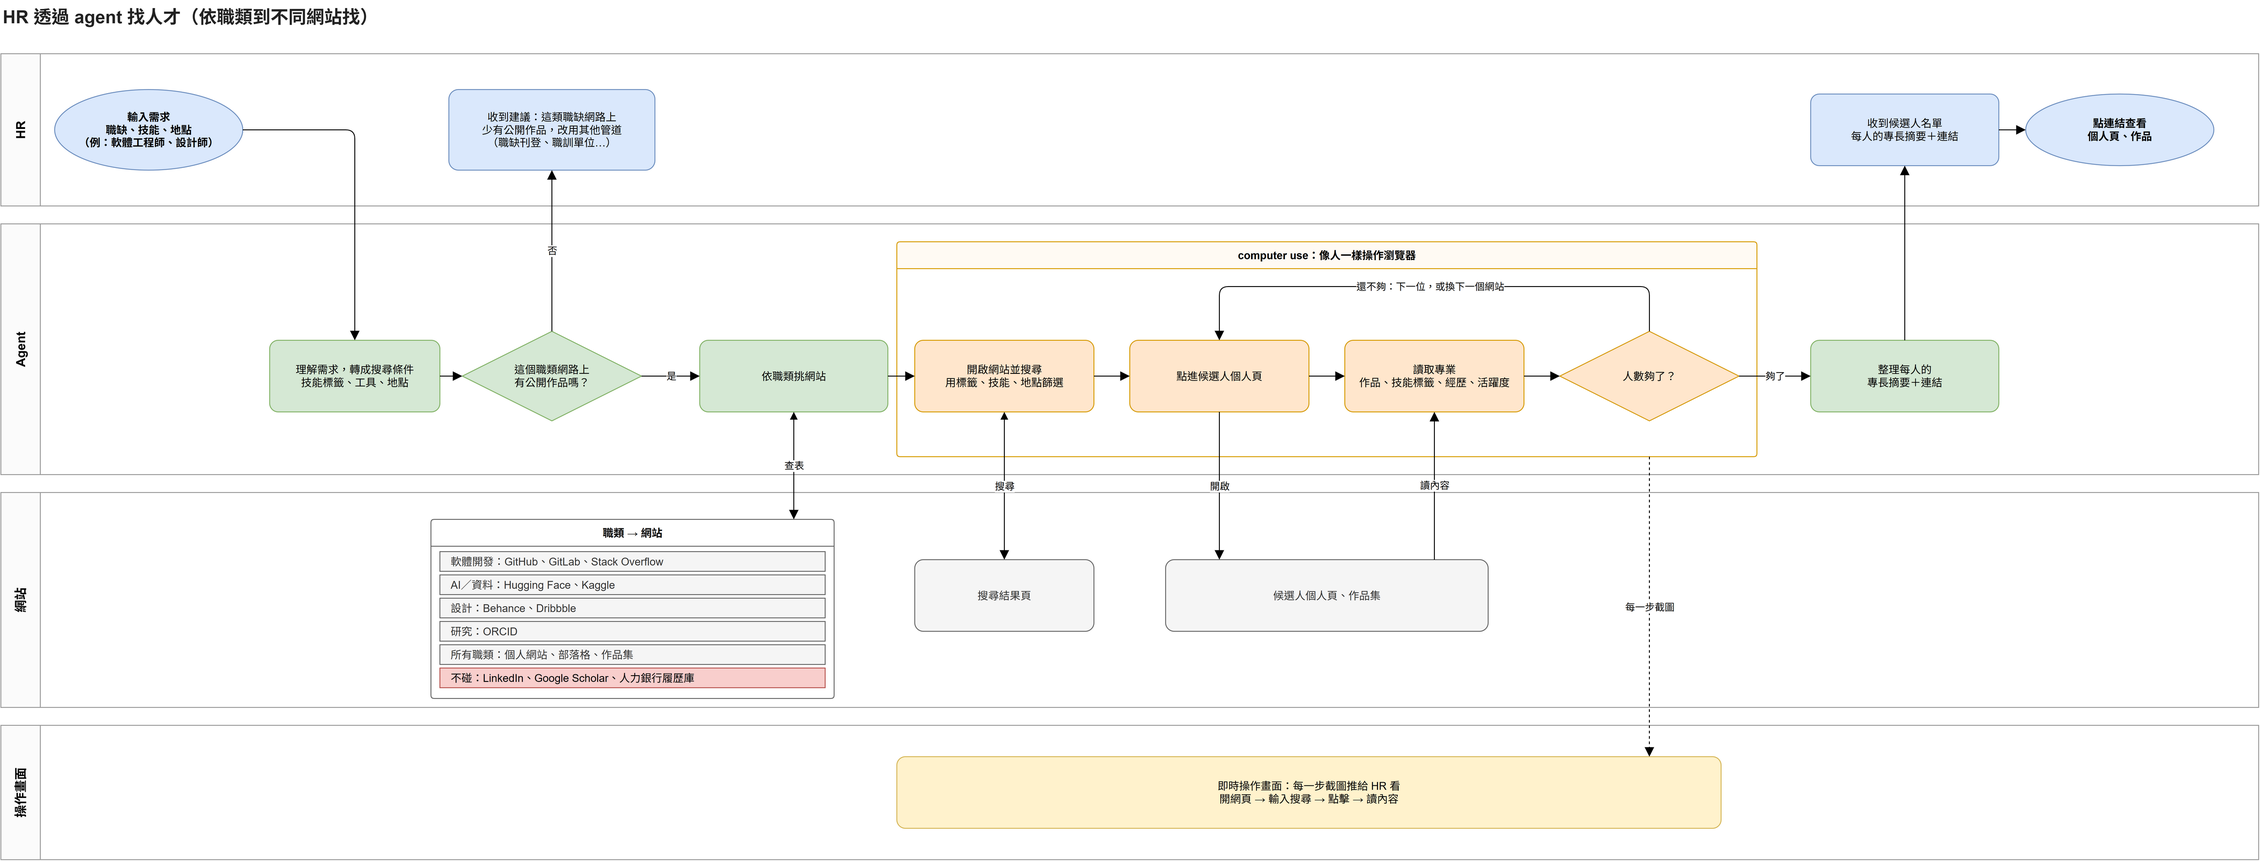
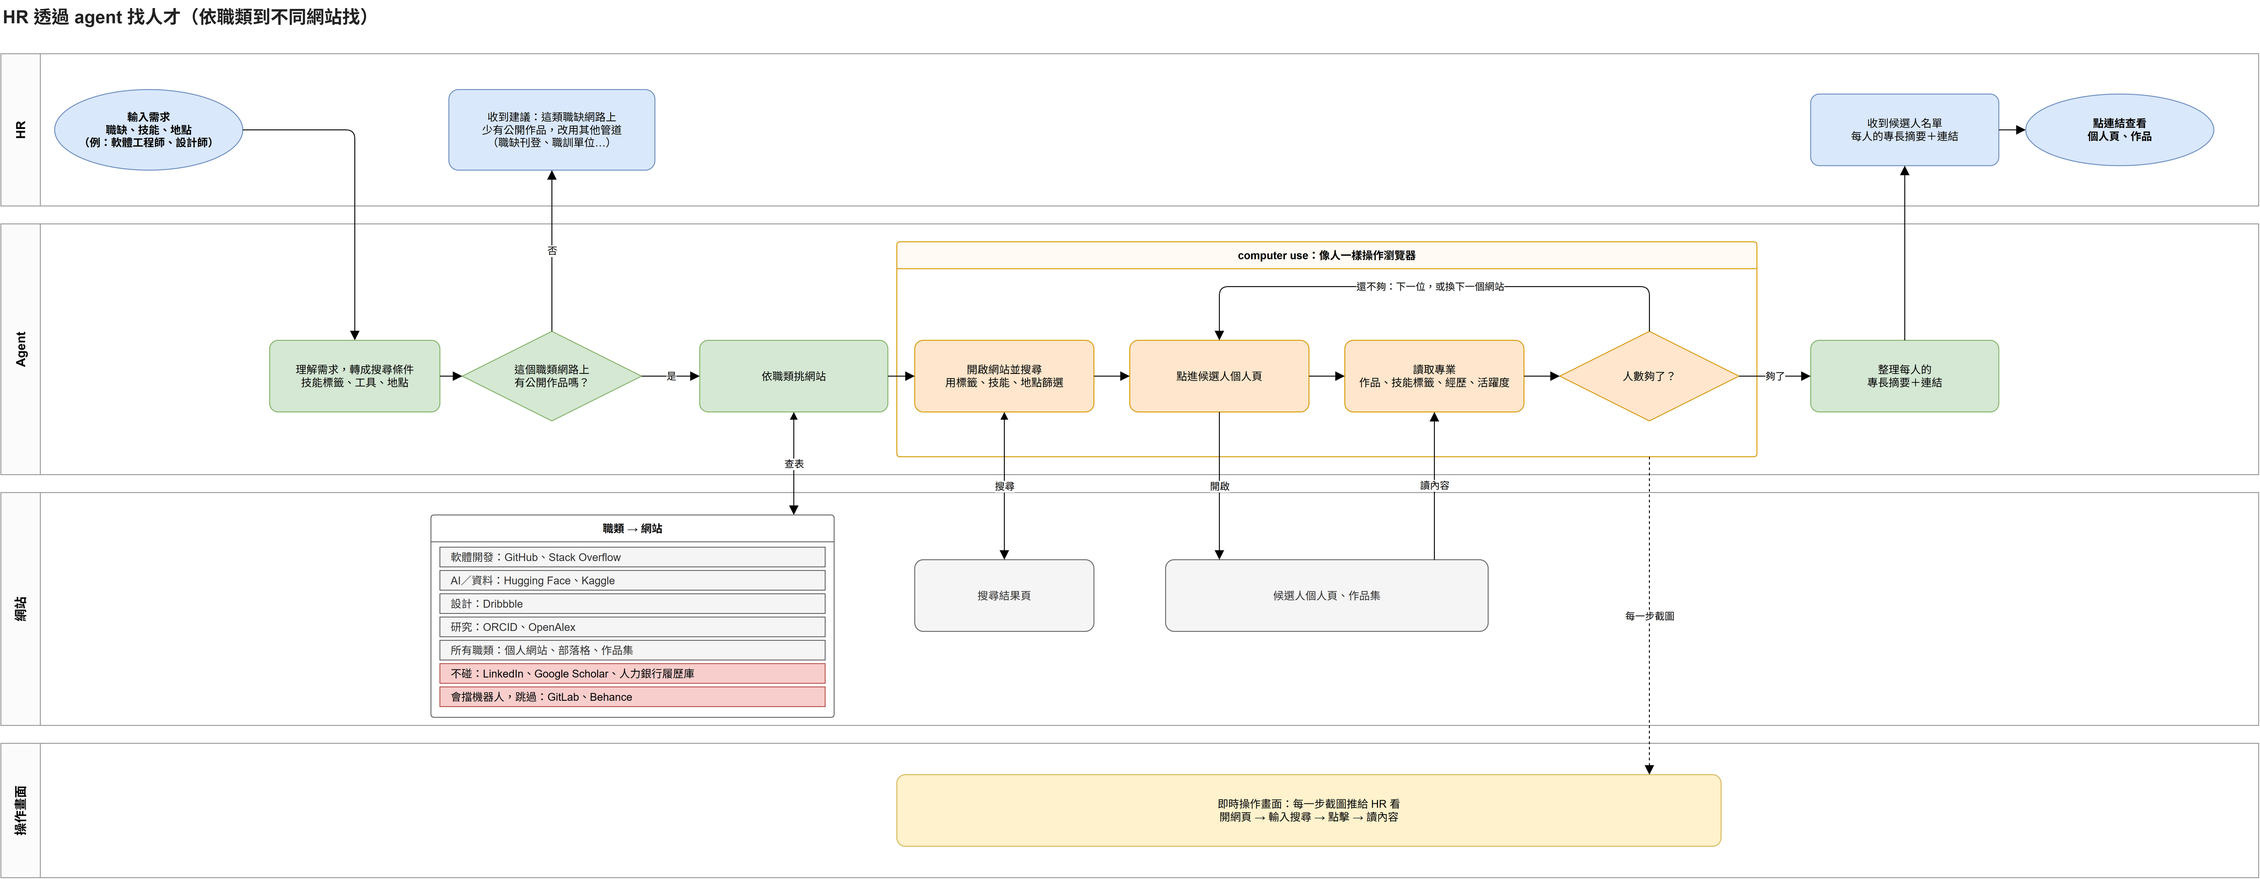
feat: add OpenAlex as the research source in place of Google Scholar
Google Scholar has no API and forbids automation, so research roles now
query the official OpenAlex API: recent papers on the topic, authors whose
current institution is in the requested city or country, with paper and
citation counts, topics, ORCID and a representative paper. API-only sites
run before the browser and Chrome starts only when a browser site remains.

diff --git a/sourcing/apis.py b/sourcing/apis.py
@@ -31,3 +31,101 @@ def stackoverflow_user(user_id: str, *, timeout: float = 15.0) -> Optional[dict[
         "link": info.get("link") or "",
         "top_tags": [t.get("tag_name") for t in tags.json().get("items", []) if t.get("tag_name")],
     }
+
+
+OPENALEX = "https://api.openalex.org"
+COUNTRY_CODES = {"Taiwan": "TW"}
+
+
+def _tail(openalex_id: Optional[str]) -> str:
+    """https://openalex.org/A123 → A123；空值回空字串（真實資料裡會有）。"""
+    return (openalex_id or "").rsplit("/", 1)[-1]
+
+
+def _openalex(path: str, params: dict[str, Any], timeout: float) -> dict[str, Any]:
+    response = requests.get(f"{OPENALEX}/{path}", params=params, timeout=timeout)
+    response.raise_for_status()
+    return response.json()
+
+
+def openalex_institutions(city: str, *, country: str = "TW", timeout: float = 20.0) -> list[str]:
+    """回傳位在指定城市的機構 id（例如 Taichung 的中興、東海、逢甲）。"""
+    ids: list[str] = []
+    for page in range(1, 4):
+        data = _openalex("institutions", {"filter": f"country_code:{country}", "per-page": 200, "page": page,
+                                          "select": "id,geo"}, timeout)
+        for inst in data.get("results", []):
+            if ((inst.get("geo") or {}).get("city") or "").lower() == city.lower():
+                ids.append(_tail(inst.get("id")))
+        if page * 200 >= data.get("meta", {}).get("count", 0):
+            break
+    return ids
+
+
+def openalex_authors(topic: str, location: Optional[str], *, limit: int = 5,
+                     timeout: float = 20.0) -> Optional[list[dict[str, Any]]]:
+    """用主題搜近年論文，挑出所屬機構在指定地點的作者，再批次取作者公開資料。API 失敗回 None。"""
+    try:
+        filters = ["from_publication_date:2021-01-01"]
+        institutions: set[str] = set()
+        if location in COUNTRY_CODES:
+            filters.append(f"authorships.institutions.country_code:{COUNTRY_CODES[location]}")
+        elif location:
+            institutions = set(openalex_institutions(location, timeout=timeout))
+            if not institutions:
+                return []
+            filters.append("authorships.institutions.id:" + "|".join(sorted(institutions)[:50]))
+        # 論文上的所屬機構是當時的；先多挑幾位，再用作者「目前」所屬機構篩一次
+        pool = min(limit * 4, 50)
+        works = _openalex("works", {"search": topic, "filter": ",".join(filters), "sort": "cited_by_count:desc",
+                                    "per-page": 50, "select": "id,title,doi,publication_year,authorships"}, timeout)
+        picked: dict[str, dict[str, Any]] = {}
+        for work in works.get("results", []):
+            for authorship in work.get("authorships") or []:
+                inst_ids = {_tail(i.get("id")) for i in authorship.get("institutions") or []}
+                countries = {i.get("country_code") for i in authorship.get("institutions") or []}
+                if institutions and not inst_ids & institutions:
+                    continue
+                if location in COUNTRY_CODES and COUNTRY_CODES[location] not in countries:
+                    continue
+                author_id = _tail((authorship.get("author") or {}).get("id"))
+                if author_id and author_id not in picked:
+                    picked[author_id] = {"top_work": {"title": work.get("title") or "", "year": work.get("publication_year"),
+                                                      "url": work.get("doi") or work.get("id")}}
+                if len(picked) >= pool:
+                    break
+            if len(picked) >= pool:
+                break
+        if not picked:
+            return []
+        details = _openalex("authors", {"filter": "openalex:" + "|".join(picked), "per-page": len(picked),
+                                        "select": "id,display_name,orcid,works_count,cited_by_count,"
+                                                  "last_known_institutions,topics"}, timeout)
+    except (requests.RequestException, ValueError, KeyError):
+        return None
+    out = []
+    for author in details.get("results", []):
+        author_id = _tail(author.get("id"))
+        current = author.get("last_known_institutions") or []
+        if institutions and not {_tail(i.get("id")) for i in current} & institutions:
+            continue
+        if location in COUNTRY_CODES and COUNTRY_CODES[location] not in {i.get("country_code") for i in current}:
+            continue
+        # 同時掛好幾個機構時，顯示符合地點的那一個
+        local = [i for i in current if (institutions and _tail(i.get("id")) in institutions)
+                 or (location in COUNTRY_CODES and i.get("country_code") == COUNTRY_CODES[location])]
+        institution = ((local or current or [{}])[0].get("display_name") or "")
+        if len(current) > 1:
+            institution += f" 等 {len(current)} 個機構"
+        out.append({
+            "id": author_id,
+            "display_name": author.get("display_name") or "",
+            "orcid": author.get("orcid") or "",
+            "works_count": author.get("works_count"),
+            "cited_by_count": author.get("cited_by_count"),
+            "institution": institution,
+            "topics": [t.get("display_name") for t in (author.get("topics") or [])[:5] if t.get("display_name")],
+            **picked.get(author_id, {}),
+        })
+    order = list(picked)
+    return sorted(out, key=lambda a: order.index(a["id"]) if a["id"] in order else len(order))[:limit]

diff --git a/tests/test_sourcing.py b/tests/test_sourcing.py
@@ -364,3 +364,67 @@ def test_jev_low_confidence_stops_and_missing_key_skips():
     assert len(steps) == 1 and steps[0]["action"] == "press_escape"
     b._client = None
     assert list(b.jev_steps("x", ("orcid.org",))) == []
+
+
+# ------------------------------------------------------------------ OpenAlex（取代 Google Scholar）
+from sourcing import apis
+
+
+def test_openalex_keeps_only_authors_from_target_city(monkeypatch):
+    def fake(path, params, timeout):
+        if path == "institutions":
+            return {"meta": {"count": 2}, "results": [
+                {"id": "https://openalex.org/I1", "geo": {"city": "Taichung"}},
+                {"id": "https://openalex.org/I2", "geo": {"city": "Taipei"}}]}
+        if path == "works":
+            assert "authorships.institutions.id:I1" in params["filter"]
+            return {"results": [{"id": "W1", "title": "Deep nets", "doi": "https://doi.org/10.1/x", "publication_year": 2024,
+                                 "authorships": [
+                                     {"author": {"id": "https://openalex.org/A9"}, "institutions": [{"id": "https://openalex.org/I2"}]},
+                                     {"author": {"id": "https://openalex.org/A1"}, "institutions": [{"id": "https://openalex.org/I1"}]}]}]}
+        assert params["filter"] == "openalex:A1"
+        return {"results": [{"id": "https://openalex.org/A1", "display_name": "Lin", "orcid": "https://orcid.org/0000-0001-2345-6789",
+                             "works_count": 40, "cited_by_count": 900,
+                             "last_known_institutions": [{"id": "https://openalex.org/I1",
+                                                          "display_name": "National Chung Hsing University"}],
+                             "topics": [{"display_name": "Machine Learning"}]}]}
+
+    monkeypatch.setattr(apis, "_openalex", fake)
+    authors = apis.openalex_authors("machine learning", "Taichung", limit=3)
+    assert [a["id"] for a in authors] == ["A1"] and authors[0]["top_work"]["url"] == "https://doi.org/10.1/x"
+
+
+def test_research_role_uses_openalex_without_opening_browser(monkeypatch):
+    monkeypatch.setattr(apis, "openalex_authors", lambda topic, location, limit: [{
+        "id": "A1", "display_name": "Lin", "orcid": "https://orcid.org/0000-0001-2345-6789", "works_count": 40,
+        "cited_by_count": 900, "institution": "National Chung Hsing University", "topics": ["Machine Learning"],
+        "top_work": {"title": "Deep nets", "url": "https://doi.org/10.1/x"}}])
+    prep = service.prepare("找台中的機器學習研究員", site_ids=["openalex"])
+    events = list(service.stream(prep, browser_factory=lambda: pytest.fail("不應開瀏覽器")))
+    cand = next(e["candidate"] for e in events if e["type"] == "candidate")
+    assert cand["profile_url"] == "https://openalex.org/authors/A1" and "被引用 900 次" in cand["headline"]
+    assert [e["label"] for e in cand["evidence"]][:2] == ["OpenAlex 作者頁", "ORCID"]
+    assert events[-1]["type"] == "done"
+
+
+def test_openalex_failure_is_reported_and_other_sites_continue(monkeypatch):
+    monkeypatch.setattr(apis, "openalex_authors", lambda *a, **k: None)
+    prep = service.prepare("找機器學習研究員", site_ids=["openalex", "orcid"])
+    browser = FakeBrowser({})
+    events = list(service.stream(prep, browser_factory=lambda: browser))
+    assert any(e["type"] == "site_error" and e["site"] == "openalex" for e in events)
+    assert any("orcid.org" in u for u in browser.opened)
+
+
+def test_openalex_drops_authors_who_moved_away(monkeypatch):
+    def fake(path, params, timeout):
+        if path == "institutions":
+            return {"meta": {"count": 1}, "results": [{"id": "https://openalex.org/I1", "geo": {"city": "Taichung"}}]}
+        if path == "works":
+            return {"results": [{"id": "W1", "title": "t", "authorships": [
+                {"author": {"id": "https://openalex.org/A1"}, "institutions": [{"id": "https://openalex.org/I1"}]}]}]}
+        return {"results": [{"id": "https://openalex.org/A1", "display_name": "Moved",
+                             "last_known_institutions": [{"id": "https://openalex.org/I7", "display_name": "Abroad Univ"}]}]}
+
+    monkeypatch.setattr(apis, "_openalex", fake)
+    assert apis.openalex_authors("x", "Taichung") == []

diff --git a/sourcing/service.py b/sourcing/service.py
@@ -14,9 +14,10 @@ from agent.audit_log import write_agent_audit
 from agent.prompt_guard import inspect_hiring_prompt
 from sourcing import planner
 from sourcing.browser import BrowserUnavailable, SourcingBrowser
-from sourcing.extract import Candidate, from_stackoverflow_api, profile_links, summarize
+from sourcing.extract import Candidate, from_openalex, from_stackoverflow_api, profile_links, summarize
 from sourcing.sites import Site, blocked_reason, sites_for
 
+DONE_MESSAGE = "只列出公開頁面的連結，未蒐集 Email 或電話；聯絡前請自行確認候選人的公開意願。"
 JEV_GOAL = ("Close any cookie banner, sign-in prompt or popup so that the list of search results "
             "(people, users or their work) is visible. Do not open any result and do not sign in.")
 
@@ -98,15 +99,39 @@ def stream(prep: Prepared, *, browser_factory: Optional[Callable[[], SourcingBro
                 event["screenshot"] = None
         return event
 
+    # 只走官方 API 的網站（OpenAlex）先跑，不需要開瀏覽器
+    api_sites = [s for s in prep.sites if s.search_url is None]
+    browser_sites = [s for s in prep.sites if s.search_url is not None]
+    for i, site in enumerate(api_sites):
+        remaining = prep.max_candidates - len(candidates)
+        if remaining <= 0:
+            break
+        quota = math.ceil(remaining / (len(prep.sites) - i))
+        step_no += 1
+        yield {"type": "step", "n": step_no, "site": site.id, "action": "read_api", "url": "https://api.openalex.org",
+               "detail": f"用 OpenAlex 官方 API 搜尋論文作者：{plan.terms.text()}", "screenshot": None}
+        found = from_openalex(site, plan, limit=quota)
+        if found is None:
+            yield {"type": "site_error", "site": site.id, "reason": "OpenAlex API 暫時無法使用"}
+            continue
+        if not found:
+            yield {"type": "site_error", "site": site.id, "reason": "OpenAlex 沒有找到符合地點的作者"}
+        for cand in found:
+            candidates.append(cand)
+            yield {"type": "candidate", "candidate": cand.as_dict()}
+    if not browser_sites or len(candidates) >= prep.max_candidates:
+        yield {"type": "done", "count": len(candidates), "plan": plan.as_dict(), "message": DONE_MESSAGE}
+        return
+
     try:
         with browser_factory() as browser:
             if not browser.jev_ready:
                 yield {"type": "notice", "message": "未設定 OPENROUTER_API_KEY：Jev 不會處理彈窗，摘要改用規則版。"}
-            for i, site in enumerate(prep.sites):
+            for i, site in enumerate(browser_sites):
                 remaining = prep.max_candidates - len(candidates)
                 if remaining <= 0:
                     break
-                quota = math.ceil(remaining / (len(prep.sites) - i))
+                quota = math.ceil(remaining / (len(browser_sites) - i))
                 search_url = site.search_url(plan.terms)
                 try:
                     browser.open(search_url)
@@ -157,5 +182,4 @@ def stream(prep: Prepared, *, browser_factory: Optional[Callable[[], SourcingBro
         yield {"type": "error", "reason": str(exc)}
         return
 
-    yield {"type": "done", "count": len(candidates), "plan": plan.as_dict(),
-           "message": "只列出公開頁面的連結，未蒐集 Email 或電話；聯絡前請自行確認候選人的公開意願。"}
+    yield {"type": "done", "count": len(candidates), "plan": plan.as_dict(), "message": DONE_MESSAGE}

diff --git a/docs/diagrams/build_sourcing_flow.py b/docs/diagrams/build_sourcing_flow.py
@@ -22,10 +22,10 @@ ROW = "align=left;spacingLeft=10;"
 
 # 職類 → 適合找人的網站（都要有公開作品或公開檔案）
 SITES = [
-    ("軟體開發", "GitHub、GitLab、Stack Overflow"),
+    ("軟體開發", "GitHub、Stack Overflow"),
     ("AI／資料", "Hugging Face、Kaggle"),
-    ("設計", "Behance、Dribbble"),
-    ("研究", "ORCID"),
+    ("設計", "Dribbble"),
+    ("研究", "ORCID、OpenAlex"),
     ("所有職類", "個人網站、部落格、作品集"),
 ]
 
@@ -43,8 +43,8 @@ def build() -> None:
     # 泳道：HR／Agent／網站／操作畫面。節點座標相對於泳道左上角
     lane(p, "l-hr", "HR", 70, 170)
     lane(p, "l-ag", "Agent", 260, 280)
-    lane(p, "l-web", "網站", 560, 240)
-    lane(p, "l-scr", "操作畫面", 820, 150)
+    lane(p, "l-web", "網站", 560, 260)
+    lane(p, "l-scr", "操作畫面", 840, 150)
 
     col = lambda i: 60 + i * 240  # noqa: E731
 
@@ -67,10 +67,12 @@ def build() -> None:
     p.node("a6", "整理每人的&#xa;專長摘要＋連結", col(8) + 40, 130, 210, 80, parent="l-ag", style=AGENT)
 
     # 網站對照表：一列一個職類，最後一列是不碰的網站
-    p.lane("cat", "職類 → 網站", 520, 590, 450, 200, style="fillColor=#ffffff;strokeColor=#666666;")
+    p.lane("cat", "職類 → 網站", 520, 585, 450, 226, style="fillColor=#ffffff;strokeColor=#666666;")
     for k, (job, sites) in enumerate(SITES):
         p.node(f"cat{k}", f"{job}：{sites}", 10, 36 + k * 26, 430, 22, parent="cat", style=SITE + ROW + "rounded=0;")
     p.node("cat-x", "不碰：LinkedIn、Google Scholar、人力銀行履歷庫", 10, 36 + len(SITES) * 26, 430, 22,
+           status="stop", parent="cat", style=ROW + "rounded=0;")
+    p.node("cat-bot", "會擋機器人，跳過：GitLab、Behance", 10, 36 + (len(SITES) + 1) * 26, 430, 22,
            status="stop", parent="cat", style=ROW + "rounded=0;")
     p.node("w1", "搜尋結果頁", 1020, 75, 200, 80, parent="l-web", style=SITE)
     p.node("w2", "候選人個人頁、作品集", 1300, 75, 360, 80, parent="l-web", style=SITE)
@@ -99,7 +101,7 @@ def build() -> None:
     mxfile = ET.Element("mxfile", host="drawio", version="26.0.0")
     d = ET.SubElement(mxfile, "diagram", id=p.name, name="找人流程")
     model = ET.SubElement(d, "mxGraphModel", grid="1", gridSize="10", page="1", pageScale="1",
-                          pageWidth="2620", pageHeight="1010", math="0", shadow="0")
+                          pageWidth="2620", pageHeight="1030", math="0", shadow="0")
     root = ET.SubElement(model, "root")
     ET.SubElement(root, "mxCell", id="0")
     ET.SubElement(root, "mxCell", id="1", parent="0")

diff --git a/sourcing/extract.py b/sourcing/extract.py
@@ -174,3 +174,31 @@ def from_stackoverflow_api(site: Site, profile_url: str, plan: Plan, *, fallback
         cand.personal_site = website
         cand.evidence.append({"label": "個人網站", "url": website})
     return cand
+
+
+def from_openalex(site: Site, plan: Plan, *, limit: int) -> Optional[list[Candidate]]:
+    """OpenAlex（取代 Google Scholar）：主題相關論文的作者，限定在需求的城市或國家。"""
+    authors = apis.openalex_authors(plan.terms.text(with_location=False), plan.terms.location, limit=limit)
+    if authors is None:
+        return None
+    out = []
+    for a in authors:
+        profile = f"https://openalex.org/authors/{a['id']}"
+        topics = [clean_text(t)[:60] for t in a["topics"]]
+        lower = " ".join(topics).lower()
+        bits = [clean_text(a["institution"])]
+        if isinstance(a.get("works_count"), int):
+            bits.append(f"論文 {a['works_count']:,} 篇")
+        if isinstance(a.get("cited_by_count"), int):
+            bits.append(f"被引用 {a['cited_by_count']:,} 次")
+        cand = Candidate(site.id, profile, clean_text(a["display_name"])[:80], "，".join(b for b in bits if b)[:120],
+                         topics, [s for s in plan.terms.skills if s.lower() in lower],
+                         summary=f"研究主題：{'、'.join(topics[:3])}" if topics else "", summary_source="api")
+        cand.evidence = [{"label": "OpenAlex 作者頁", "url": profile}]
+        if a.get("orcid"):
+            cand.evidence.append({"label": "ORCID", "url": a["orcid"]})
+        work = a.get("top_work") or {}
+        if work.get("url"):
+            cand.evidence.append({"label": f"代表論文：{clean_text(work.get('title', ''))[:50]}", "url": work["url"]})
+        out.append(cand)
+    return out

diff --git a/sourcing/sites.py b/sourcing/sites.py
@@ -20,7 +20,7 @@ CATEGORIES = {
 # 條款禁止自動化，或屬於付費雇主帳號才能看的履歷庫：一律不開
 BLOCKED_DOMAINS = {
     "linkedin.com": "LinkedIn 使用條款禁止自動化存取",
-    "scholar.google.com": "Google Scholar 禁止自動化存取",
+    "scholar.google.com": "Google Scholar 禁止自動化存取；研究類改用 OpenAlex",
     "104.com.tw": "人力銀行履歷庫需付費雇主帳號，自動化操作違反條款",
     "1111.com.tw": "人力銀行履歷庫需付費雇主帳號，自動化操作違反條款",
     "518.com.tw": "人力銀行履歷庫需付費雇主帳號，自動化操作違反條款",
@@ -143,6 +143,9 @@ SITES: dict[str, Site] = {s.id: s for s in [
          re.compile(r"^https://dribbble\.com/([A-Za-z0-9_-]+)$"), _DRIBBBLE_RESERVED),
     Site("orcid", "ORCID", ("research",), ("orcid.org",), _orcid,
          re.compile(r"^https://orcid\.org/(\d{4}-\d{4}-\d{4}-\d{3}[\dX])$")),
+    # Google Scholar 沒有官方 API 且禁止自動化，研究類改用 OpenAlex 官方 API
+    Site("openalex", "OpenAlex", ("research",), ("openalex.org", "api.openalex.org"), None, None,
+         profile_api="openalex"),
     Site("gitlab", "GitLab", ("software",), ("gitlab.com",), None, None, available=False,
          unavailable_reason="使用 Cloudflare 機器人驗證，系統不繞過驗證"),
     Site("behance", "Behance", ("design",), ("www.behance.net", "behance.net"), None, None, available=False,

diff --git a/docs/SOURCING.md b/docs/SOURCING.md
@@ -32,8 +32,9 @@ pip install -r requirements-sourcing.txt   # typesafe-computer-use，需要 Pyth
 | 設計 | Dribbble | 可用（從作品搜尋找作者） |
 | 設計 | Behance | **不可用**：對自動瀏覽回應 HTTP 400 |
 | 研究 | ORCID | 可用（頁面較慢，常有 cookie 橫幅） |
+| 研究 | OpenAlex | 官方 API，不開瀏覽器（取代 Google Scholar）：依主題找近年論文的作者，再用作者**目前**所屬機構篩城市或國家 |
 | 所有職類 | 個人網站 | 不主動搜尋；只記錄候選人在個人頁用 `rel="me"` 留的網站 |
-| 不碰 | LinkedIn、Google Scholar、104／1111／518／yes123／CakeResume | 條款禁止自動化，或屬付費雇主帳號 |
+| 不碰 | LinkedIn、Google Scholar、104／1111／518／yes123／CakeResume | 條款禁止自動化（含登入後的帳號），或屬付費雇主帳號的履歷庫；不做 computer use。正式管道是 LinkedIn Recruiter System Connect、104 HR Max Open API 等官方合作 |
 
 網站狀態是 2026-11-02 實測的結果。遇到機器人驗證或錯誤頁時，系統會跳過該網站，**不嘗試繞過**。
 
@@ -93,7 +94,7 @@ for (;;) {
 | `error` | 瀏覽器或套件無法使用 | `reason` |
 | `done` | 結束 | `count`、`plan`、`message` |
 
-`step.action`：`open_search`（開搜尋頁）、`jev_click`／`jev_press_escape`／`jev_scroll_down`／`jev_done`／`jev_none`…（Jev 決定的動作）、`open_profile`（點擊或開啟個人頁）、`read_api`（改用官方 API）。
+`step.action`：`read_api`（OpenAlex、Stack Exchange 官方 API，`screenshot` 可能是 `null`）、`open_search`（開搜尋頁）、`jev_click`／`jev_press_escape`／`jev_scroll_down`／`jev_done`／`jev_none`…（Jev 決定的動作）、`open_profile`（點擊或開啟個人頁）。
 
 `candidate` 欄位：
 
